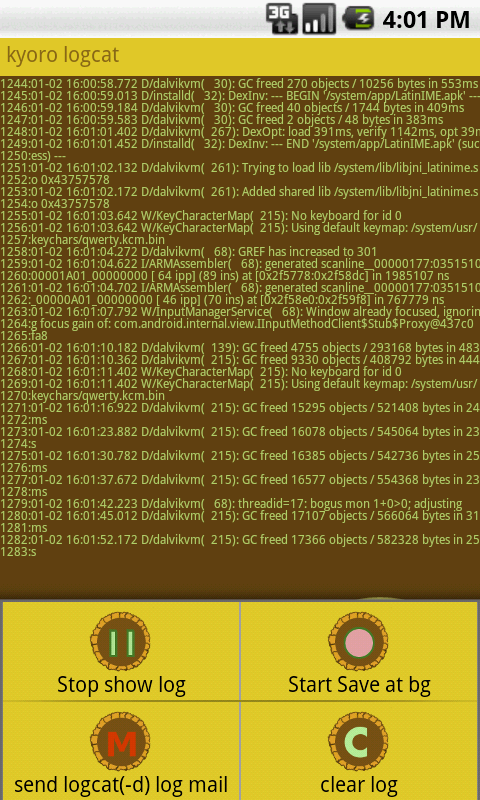
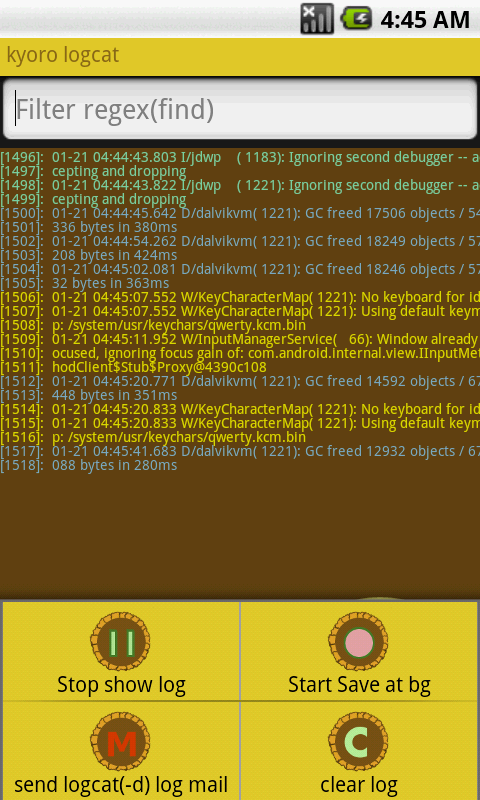
KyoroLogcat (alpha) version 103

Changed region(s): [[0.0, 0.0938, 1.0, 0.7188], [0.5312, 0.0, 0.9375, 0.0625]]

diff --git a/KyoroLogcat/src/info/kyorohiro/helloworld/logcat/logcat/LogcatCyclingLineDataList.java b/KyoroLogcat/src/info/kyorohiro/helloworld/logcat/logcat/LogcatCyclingLineDataList.java
@@ -1,17 +1,15 @@
 package info.kyorohiro.helloworld.logcat.logcat;
 
 import java.util.ArrayList;
-import java.util.Stack;
 import java.util.regex.Matcher;
 import java.util.regex.Pattern;
 
-import info.kyorohiro.helloworld.display.simple.SimpleGraphics;
-import info.kyorohiro.helloworld.util.AsyncDuplicateCyclingList;
+import info.kyorohiro.helloworld.util.CyclingListForAsyncDuplicate;
 import info.kyorohiro.helloworld.util.CyclingList;
 import android.graphics.Color;
 import android.graphics.Paint;
 
-public class LogcatCyclingLineDataList extends AsyncDuplicateCyclingList<LogcatLineData> {
+public class LogcatCyclingLineDataList extends CyclingListForAsyncDuplicate<LogcatLineData> {
 	private Paint mPaint = null;
 	private int mWidth = 1000;
 	private Pattern mFilter = null;
@@ -25,27 +23,26 @@ public class LogcatCyclingLineDataList extends AsyncDuplicateCyclingList<LogcatL
 		mPaint.setTextSize(textSize);
 	}
 
-	private ArrayList<LogcatLineData> a = new ArrayList<LogcatLineData>();
-
+	private ArrayList<LogcatLineData> mCashForFiltering = new ArrayList<LogcatLineData>();
 	@Override
 	protected boolean filter(LogcatLineData t) {
 		if(mFilter == null){
 			return true;
 		}
-		a.add(t);
+		mCashForFiltering.add(t);
 		if(t.getStatus() == LogcatLineData.INCLUDE_END_OF_LINE) {
 			StringBuilder builder = new StringBuilder("");
-			for(LogcatLineData d : a){
+			for(LogcatLineData d : mCashForFiltering){
 				builder.append(d);
 			}
 			String i = builder.toString();
 			Matcher m = mFilter.matcher(i);
 			if(m.find()){
-				for(LogcatLineData d: a) {
+				for(LogcatLineData d: mCashForFiltering) {
 					getCopyingList().add(d);
 				}
 			}
-			a.clear();
+			mCashForFiltering.clear();
 		}
 		// ever time return false;
 		return false;
@@ -73,11 +70,11 @@ public class LogcatCyclingLineDataList extends AsyncDuplicateCyclingList<LogcatL
 		while (true) {
 			len = mPaint.breakText(line.toString(), true, mWidth, null);
 			if (len == line.length()) {
-				add(new LogcatLineData(line, currentColor,
+				add(new LogcatLineData(line, mCurrentColor,
 						LogcatLineData.INCLUDE_END_OF_LINE));
 				break;
 			} else {
-				add(new LogcatLineData(line.substring(0, len), currentColor,
+				add(new LogcatLineData(line.substring(0, len), mCurrentColor,
 						LogcatLineData.EXCLUDE_END_OF_LINE));
 				line = line.substring(len, line.length());
 			}
@@ -117,8 +114,7 @@ public class LogcatCyclingLineDataList extends AsyncDuplicateCyclingList<LogcatL
 		return (LogcatLineData) super.get(i);
 	}
 
-	private int currentColor = Color.parseColor("#ccc9f486");
-
+	private int mCurrentColor = Color.parseColor("#ccc9f486");
 	private void setColorPerLine(String line) {
 		try {
 			Matcher m = mPatternForFontColorPerLine.matcher(line);
@@ -127,19 +123,19 @@ public class LogcatCyclingLineDataList extends AsyncDuplicateCyclingList<LogcatL
 			}
 			if (m.find()) {
 				if ("D".equals(m.group(1))) {
-					currentColor = Color.parseColor("#cc86c9f4");
+					mCurrentColor = Color.parseColor("#cc86c9f4");
 				} else if ("I".equals(m.group(1))) {
-					currentColor = Color.parseColor("#cc86f4c9");
+					mCurrentColor = Color.parseColor("#cc86f4c9");
 				} else if ("V".equals(m.group(1))) {
-					currentColor = Color.parseColor("#ccc9f486");
+					mCurrentColor = Color.parseColor("#ccc9f486");
 				} else if ("W".equals(m.group(1))) {
-					currentColor = Color.parseColor("#ccffff00");
+					mCurrentColor = Color.parseColor("#ccffff00");
 				} else if ("E".equals(m.group(1))) {
-					currentColor = Color.parseColor("#ccff2222");
+					mCurrentColor = Color.parseColor("#ccff2222");
 				} else if ("F".equals(m.group(1))) {
-					currentColor = Color.parseColor("#ccff2222");
+					mCurrentColor = Color.parseColor("#ccff2222");
 				} else if ("S".equals(m.group(1))) {
-					currentColor = Color.parseColor("#ccff2222");
+					mCurrentColor = Color.parseColor("#ccff2222");
 				}
 			}
 		} catch (Throwable e) {

diff --git a/KyoroCommon/src/info/kyorohiro/helloworld/util/CyclingListForAsyncDuplicate.java b/KyoroCommon/src/info/kyorohiro/helloworld/util/CyclingListForAsyncDuplicate.java
@@ -1,0 +1,130 @@
+package info.kyorohiro.helloworld.util;
+
+
+/**
+ * duplicate asynchronously CyclingList.
+ */
+public class CyclingListForAsyncDuplicate<T> implements CyclingListInter<T> {
+
+	private CyclingList<T> mBase = null;
+	private CyclingList<T> mCopy = null;
+	private Task mTask = null;
+	private boolean mTaskStatus = false;
+	private int mBufferSize = 0;
+	private int mIndexForNextCopy = 0;
+
+	public CyclingListForAsyncDuplicate(CyclingList<T> base, int copyDataBuffer) {
+		mBase = base;
+		mCopy = new CyclingList<T>(copyDataBuffer);
+		mBufferSize = copyDataBuffer;
+	}
+
+	
+	public synchronized void start() {
+		stop();
+		mTaskStatus = true;
+		mCopy = new CyclingList<T>(mBufferSize);
+		mTask = new Task();
+		mTask.start();
+	}
+
+	public synchronized void stop() {
+		mTaskStatus = false;
+		if (taskIsAlive()) {
+			mTask.interrupt();
+		}
+	}
+
+	public boolean taskIsAlive() {
+		if (mTask == null) {
+			return false;
+		}
+
+		return mTaskStatus;
+		// mTask.isAlive())
+	}
+
+	@Override
+	public T get(int i) {
+		return mBase.get(i);
+	}
+
+	@Override
+	public synchronized void add(T element) {
+		if (copyTaskIsAlive()) {
+			copy();
+		} else {
+			copy(element);
+		}
+		mBase.add(element);
+	}
+
+	@Override
+	public int getNumberOfStockedElement() {
+		return mBase.getNumberOfStockedElement();
+	}
+
+	@Override
+	public void clear() {
+		mBase.clear();
+		mCopy.clear();
+	}
+
+	@Override
+	public T[] getLast(T[] ret, int numberOfRetutnArrayElement) {
+		return mBase.getLast(ret, numberOfRetutnArrayElement);
+	}
+
+	@Override
+	public T[] getElements(T[] ret, int start, int end) {
+		return mBase.getElements(ret, start, end);
+	}
+
+	//--------------------------------------------------------------------------
+	//--------------------------------------------------------------------------
+	//--------------------------------------------------------------------------
+	
+	public boolean copyTaskIsAlive(){
+		if (mTaskStatus && mTask.isAlive()) {
+			return true;
+		} else {
+			return false;
+		}
+	}
+	public CyclingList<T> getCopyingList() {
+		return mCopy;
+	}
+
+	private synchronized void copy() {
+		T t = mBase.get(mIndexForNextCopy);
+		if (filter(t)) {
+			mCopy.add(t);
+		}
+	}
+
+	private synchronized void copy(T t) {
+		if (filter(t)) {
+			mCopy.add(t);
+		}
+	}
+
+	protected boolean filter(T t) {
+		return true;
+	}
+
+	public class Task extends Thread {
+		@Override
+		public void run() {
+			super.run();
+			int len = mBase.getNumberOfStockedElement();
+			try {
+				for (mIndexForNextCopy = 0; mIndexForNextCopy < len; mIndexForNextCopy++) {
+					copy();
+					Thread.sleep(0);
+				}
+			} catch (InterruptedException e) {
+
+			}
+		}
+	}
+}

diff --git a/KyoroLogcat/src/info/kyorohiro/helloworld/logcat/KyoroLogcatActivity.java b/KyoroLogcat/src/info/kyorohiro/helloworld/logcat/KyoroLogcatActivity.java
@@ -37,7 +37,7 @@ public class KyoroLogcatActivity extends TestActivity {
 	private LogcatCyclingLineDataList mLogcatOutput = mLogcatViewer.getCyclingStringList();
 	private SimpleCircleController mCircleController = new SimpleCircleController();
 	private SimpleStage mStage = null;
-	private EditText mText = null; 
+	private EditText mInputForLogFilter = null; 
 
 	/** Called when the activity is first created. */
 	@Override
@@ -52,27 +52,27 @@ public class KyoroLogcatActivity extends TestActivity {
 		mStage.getRoot().addChild(mCircleController);
 		mStage.start();
 		
-		LinearLayout layout = new LinearLayout(this);
-		layout.setOrientation(LinearLayout.VERTICAL);
-		mText = new EditText(this);
-		mText.setSelected(false);
-		LayoutParams params = new LayoutParams(LayoutParams.FILL_PARENT, 
-		          LayoutParams.WRAP_CONTENT);
-		layout.addView(mText,params);
-		layout.addView(mStage);
-		mText.setInputType(InputType.TYPE_TEXT_FLAG_MULTI_LINE);
-		mText.setHint("Filter regex");
-		mText.setImeOptions(EditorInfo.IME_ACTION_SEARCH);
-		mText.setOnEditorActionListener(new TextView.OnEditorActionListener() {
+		mInputForLogFilter = new EditText(this);
+		mInputForLogFilter.setSelected(false);
+		mInputForLogFilter.setInputType(InputType.TYPE_TEXT_FLAG_MULTI_LINE);
+		mInputForLogFilter.setHint("Filter regex(find)");
+		mInputForLogFilter.setImeOptions(EditorInfo.IME_ACTION_SEARCH);
+		mInputForLogFilter.setOnEditorActionListener(new TextView.OnEditorActionListener() {
 			public boolean onEditorAction(TextView v, int actionId, KeyEvent event) {
 				// All IME Application take that actionId become imeoption's value.
-				mLogcatViewer.startFilter(mText.getText().toString());
+				mLogcatViewer.startFilter(mInputForLogFilter.getText().toString());
 				return false;
 			}
 		});
 
+		LinearLayout rootLayout = new LinearLayout(this);
+		rootLayout.setOrientation(LinearLayout.VERTICAL);
+		LayoutParams params = new LayoutParams(LayoutParams.FILL_PARENT, LayoutParams.WRAP_CONTENT);
+		rootLayout.addView(mInputForLogFilter,params);
+		rootLayout.addView(mStage);
+
 		getWindow().setSoftInputMode(WindowManager.LayoutParams.SOFT_INPUT_STATE_ALWAYS_HIDDEN); 
-		setContentView(layout);
+		setContentView(rootLayout);
 	}
 
 	@Override

diff --git a/KyoroLogcat/src/info/kyorohiro/helloworld/logcat/widget/KyoroWidgetBase.java b/KyoroLogcat/src/info/kyorohiro/helloworld/logcat/widget/KyoroWidgetBase.java
@@ -6,6 +6,7 @@ import android.appwidget.AppWidgetProvider;
 import android.content.Context;
 import android.content.Intent;
 import android.widget.RemoteViews;
+import android.widget.Toast;
 
 public class KyoroWidgetBase extends AppWidgetProvider {
 	// log tag
@@ -23,8 +24,15 @@ public class KyoroWidgetBase extends AppWidgetProvider {
 	}
 
 	@Override
+	public void onEnabled(Context context) {
+		Toast.makeText(context, "onEnable", Toast.LENGTH_LONG);
+		super.onEnabled(context);
+	}
+
+	@Override
 	public void onUpdate(Context context, AppWidgetManager appWidgetManager,
 			int[] appWidgetIds) {
+		Toast.makeText(context, "onUpdate", Toast.LENGTH_LONG);
 		KyoroWidgetService.setWidgetImage(context, mType);
 		Intent intentForClickAction = KyoroWidgetService.getIntentToStartButtonAction(context, mType);
 		intentForClickAction.setType(mType);
@@ -41,11 +49,7 @@ public class KyoroWidgetBase extends AppWidgetProvider {
 			views.setOnClickPendingIntent(id, pendingIntent);
 		}
 
-		int N = appWidgetIds.length;
-		for (int i = 0; i < N; i++) {
-			int appWidgetId = appWidgetIds[i];
-			appWidgetManager.updateAppWidget(appWidgetId, views);
-		}
+		appWidgetManager.updateAppWidget(appWidgetIds, views);
 	}
 
 }

diff --git a/KyoroCommon/src/info/kyorohiro/helloworld/android/base/TestService.java b/KyoroCommon/src/info/kyorohiro/helloworld/android/base/TestService.java
@@ -7,7 +7,6 @@ import android.app.Notification;
 import android.app.NotificationManager;
 import android.app.Service;
 import android.content.Context;
-import android.util.Log;
 
 public abstract class TestService extends Service {
 	private static final Class<?>[] mSetForegroundSignature = new Class[] {
@@ -31,10 +30,10 @@ public abstract class TestService extends Service {
 			method.invoke(this, args);
 		} catch (InvocationTargetException e) {
 			// Should not happen.
-			Log.w("ApiDemos", "Unable to invoke method", e);
+			e.printStackTrace();
 		} catch (IllegalAccessException e) {
 			// Should not happen.
-			Log.w("ApiDemos", "Unable to invoke method", e);
+                    	e.printStackTrace();
 		}
 	}
 

diff --git a/KyoroLogcat/src/info/kyorohiro/helloworld/logcat/widget/KyoroMailWidget.java b/KyoroLogcat/src/info/kyorohiro/helloworld/logcat/widget/KyoroMailWidget.java
@@ -12,6 +12,11 @@ public class KyoroMailWidget extends KyoroWidgetBase {
 	public KyoroMailWidget() {
 		super(R.layout.widget_mail, new int[]{R.id.widget_mail,R.id.widget_mail_img,R.id.widget_mail_text}, TYPE);
 	}
+	
+	@Override
+	public void onEnabled(Context context) {
+		super.onEnabled(context);
+	}
 
 	@Override
 	public void onUpdate(Context context, AppWidgetManager appWidgetManager, int[] appWidgetIds) {

diff --git a/KyoroCommon/src/info/kyorohiro/helloworld/display/simple/SimpleStage.java b/KyoroCommon/src/info/kyorohiro/helloworld/display/simple/SimpleStage.java
@@ -96,7 +96,6 @@ public class SimpleStage extends SurfaceView {
 
 	@Override
 	public boolean onTrackballEvent(MotionEvent event) {
-		android.util.Log.v("kiyohiro","x="+event.getX()+":y="+event.getY());
 		if(event.getY()>0){
 			getRoot().onKeyUp(KeyEvent.KEYCODE_DPAD_DOWN);
 			getRoot().onKeyDown(KeyEvent.KEYCODE_DPAD_DOWN);			
